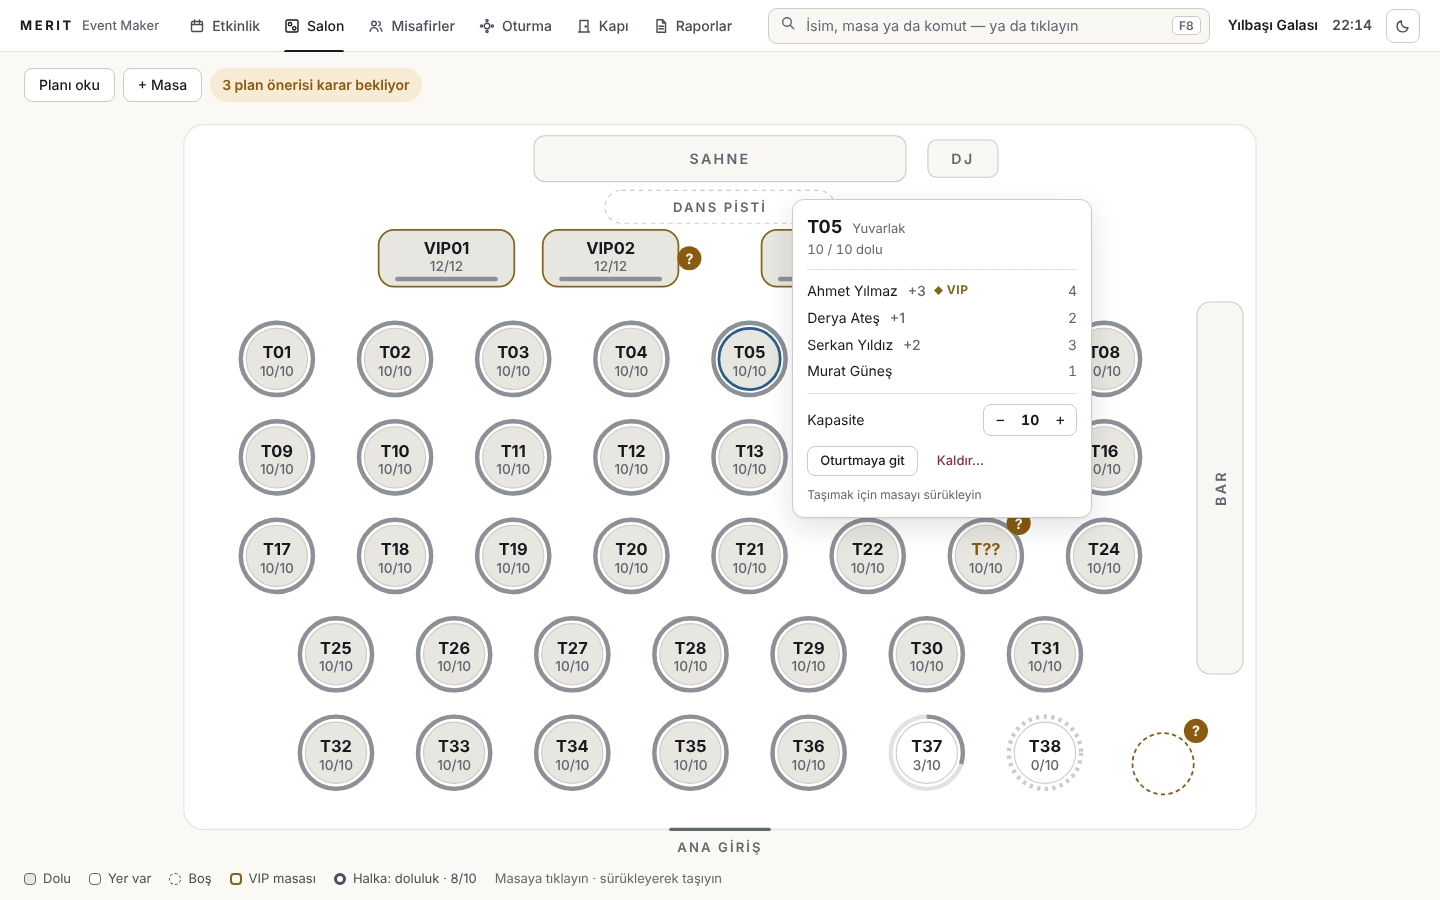
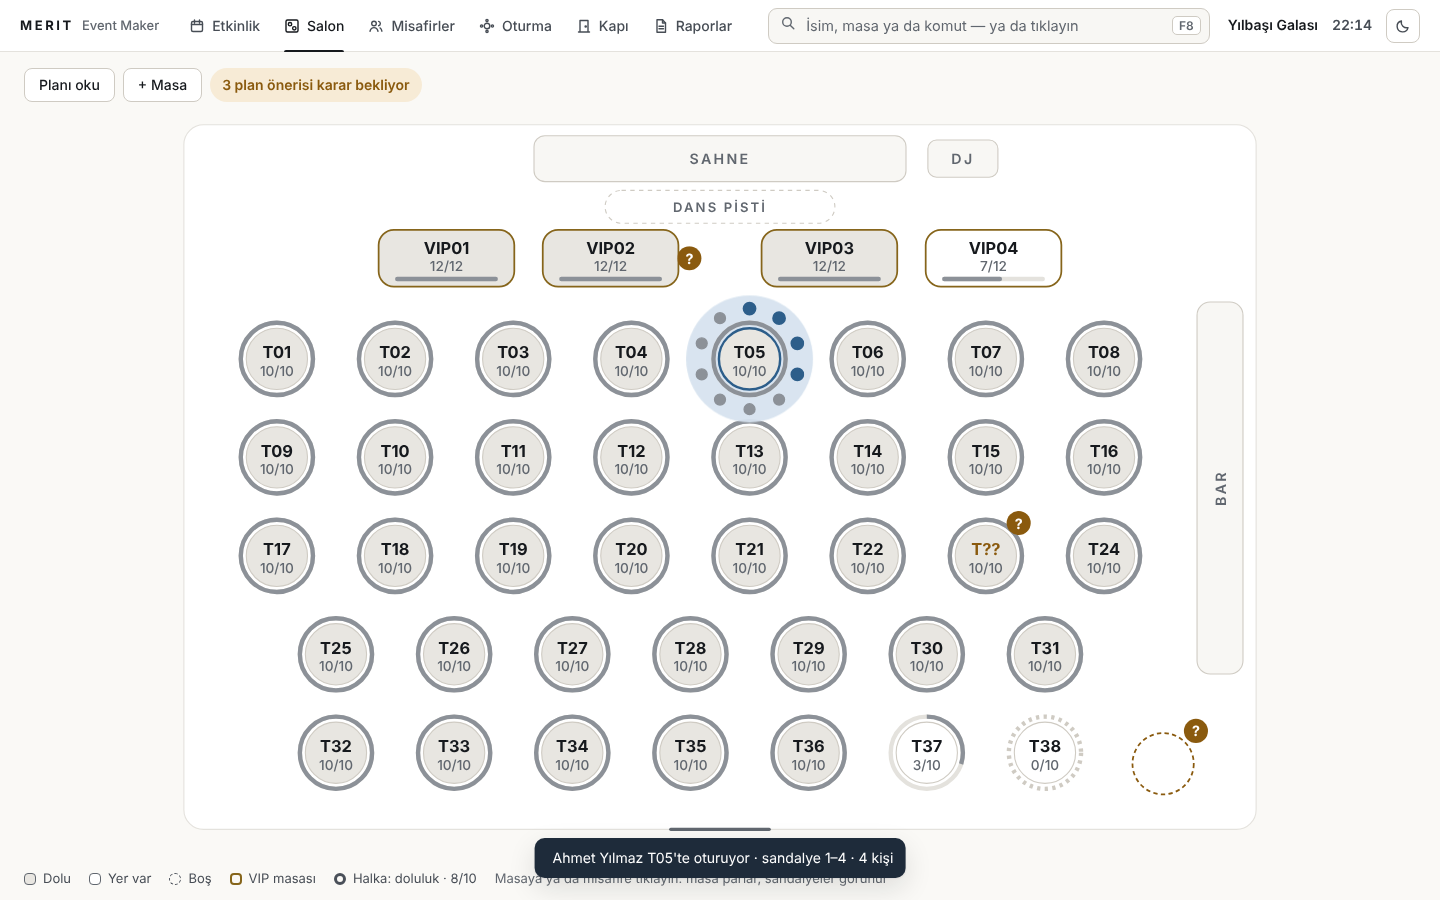
Redesign v3: calendar events, glow-on-ask table with seats, classic dark; runEq2 pre-registered (identical data for all three models)
Claude-Session: https://claude.ai/code/session_01Ak6diUNXKQisc6dYh4daPW

Changed region(s): [[0.4688, 0.2178, 0.7812, 0.5911], [0.3438, 0.9333, 0.6562, 0.9956]]

diff --git a/benchmarks/ux/redesign/6-birlesik/index.html b/benchmarks/ux/redesign/6-birlesik/index.html
@@ -107,8 +107,8 @@ main{height:calc(100vh - 52px);position:relative}
 .cdn{font-size:12.5px;color:var(--ink3);font-weight:600;padding:1px 6px;align-self:flex-start}
 .cell.today .cdn{color:var(--acc-ink);background:var(--acc);border-radius:10px}
 .ce{display:flex;align-items:center;gap:6px;width:100%;text-align:left;border:0;border-radius:6px;padding:4px 6px;background:none;font-size:12.5px;color:var(--ink);min-width:0}
-.ce span{white-space:nowrap;overflow:hidden;text-overflow:ellipsis}
-.ce i{width:3px;height:14px;border-radius:2px;background:var(--acc2);flex:none}
+.ce .cn{display:flex;flex-direction:column;min-width:0;line-height:1.3}.ce .cn b{font-weight:500;white-space:nowrap;overflow:hidden;text-overflow:ellipsis}.ce .cn small{font-size:12px;color:var(--ink3)}.ce.live .cn b{font-weight:650}
+.ce i{width:3px;height:28px;border-radius:2px;background:var(--acc2);flex:none}
 .ce:hover{background:var(--surf2)}
 .ce.on{background:var(--acc2-soft);box-shadow:inset 0 0 0 1px var(--acc2)}
 .ce.past{color:var(--ink3)}.ce svg{flex:none}
@@ -638,11 +638,12 @@ const RENDER={etkinlik:renderEvents,salon:()=>{renderRoom();renderSugChip()},mis
 function goIssue(i){if(!i)return;if(i.f)S.glF=i.f;if(i.g)S.selG=i.g;go(i.go)}
 
 /* ═══ ETKİNLİK: timeline of evenings (from 4-atlas) + readiness ═══ */
+const TODAY='2026-12-31';
 const fmtD=d=>{const x=new Date(d+'T12:00');return x.getDate()+' '+MONTHS[x.getMonth()]+' '+x.getFullYear()};
 function renderEvents(){const [Y,M]=S.month.split('-').map(Number),start=(new Date(Y,M-1,1).getDay()+6)%7,days=new Date(Y,M,0).getDate(),cells=Math.ceil((start+days)/7)*7;
  let h=`<div class="cal-h"><button class="btn ghost icon" data-m="-1" aria-label="Önceki ay">‹</button><h2>${MONTHS[M-1]} ${Y}</h2><button class="btn ghost icon" data-m="1" aria-label="Sonraki ay">›</button><button class="btn sm" data-m="0">Bugün</button></div><div class="cal-dow">${['Pzt','Sal','Çar','Per','Cum','Cmt','Paz'].map(d=>`<span>${d}</span>`).join('')}</div><div class="cal-grid" style="grid-template-rows:repeat(${cells/7},minmax(0,1fr))">`;
  for(let i=0;i<cells;i++){const d=i-start+1;if(d<1||d>days){h+='<div class="cell off"></div>';continue}const ds=`${Y}-${pad2(M)}-${pad2(d)}`;
-  h+=`<div class="cell${ds===TODAY?' today':''}${ds<TODAY?' was':''}"><span class="cdn">${d}</span>${EVENTS.filter(e=>e.d===ds).map(e=>`<button class="ce${e.past?' past':''}${e.live?' live':''}${S.ev===e.id?' on':''}" data-ev="${e.id}" title="${esc(e.name)}">${e.past?IC.lock:'<i></i>'}<span>${e.t?e.t+' · ':''}${esc(e.name)}</span></button>`).join('')}${ds>=TODAY?`<button class="cadd" data-new="${ds}" aria-label="${d} ${MONTHS[M-1]}: yeni etkinlik">+</button>`:''}</div>`}
+  h+=`<div class="cell${ds===TODAY?' today':''}${ds<TODAY?' was':''}"><span class="cdn">${d}</span>${EVENTS.filter(e=>e.d===ds).map(e=>`<button class="ce${e.past?' past':''}${e.live?' live':''}${S.ev===e.id?' on':''}" data-ev="${e.id}" title="${esc(e.name)}">${e.past?IC.lock:'<i></i>'}<span class="cn"><b>${esc(e.name)}</b>${e.t?`<small>${e.t}</small>`:''}</span></button>`).join('')}${ds>=TODAY?`<button class="cadd" data-new="${ds}" aria-label="${d} ${MONTHS[M-1]}: yeni etkinlik">+</button>`:''}</div>`}
  $('#calBox').innerHTML=h+'</div>';renderEvDetail();$('#evname').textContent='Yılbaşı Galası'}
 function renderEvDetail(){const e=EVENTS.find(x=>x.id===S.ev)||EVENTS.find(x=>x.live),x=new Date(e.d+'T12:00'),c=counts();
  const facts=e.live?[['Kişi',420],['Masa',TABLES.length],['Oturmuş',c.seated],['Geldi',c.arrived]]:e.past?[['Kişi',e.pax],['Geldi',e.arr]]:[['Kişi',e.pax||'—'],['Masa',e.tables||'—']];

diff --git a/benchmarks/ux/redesign/6-birlesik/NOTES.md b/benchmarks/ux/redesign/6-birlesik/NOTES.md
@@ -1,15 +1,23 @@
-# 6 · Birleşik — the combined direction (SPEC-v2, revision 2 after the owner's review)
-- **Shell:** one thin 52 px bar with Etkinlik · Salon · Misafirler · Oturma · Kapı · Raporlar (keys 1–6) and the F8 command line beside it. Fonts are system sans only.
-- **Etkinlik (rev 2):** the timeline is replaced by large cards with drawn covers (inline SVG per venue, no photos).
-  - Tonight's event comes first and largest: date, venue, figures, actions and "Hazır mı?".
-  - Upcoming events follow as three cards with readiness. Past events sit below as small, muted, locked cards.
-  - Clicking a card opens it; ⋯ holds Aynı yerleşimle yeni, Çoğalt, Dışa aktar and Sil.
-- **Plan (rev 2) for Salon, Kapı and print:** a simple icon plan. Each table is a clean circle or a rounded rectangle (VIP) with its number and "8/10". The ring or bar shows occupancy, and a full table is filled. Stage, DJ, dance floor, bar and entrance are labelled shapes. There are no chair dots and no wall detail.
-- **Door colours:** on the door the ring shows arrivals in green and no-shows in claret; the number shows arrived / planned.
-- **Oturma:** keeps the chair drawing the owner approved, so each seat stays visible while a guest is being placed. It aligns with the dark shot (Mehmet Kaya → T37, T38 open; VIP tables are not offered to non-VIP guests).
-- **Misafirler:** unchanged; the owner approved it.
-- **Kapı:** unchanged in behaviour. Big search; big "Giriş" on the right; "Gelmedi" only in the ⋯ menu and it asks first. Only that row, that table's ring and the counters change; measured, the row does not move.
-- **Dark theme (rev 2):** calmer graphite (#121314 / #18191B) with restrained accents (green #7AAA8C, claret #C98A90, steel #93A9BF). Switch with F9 or the button.
-- **Contrast (WCAG), on surface:** light ink 17.6, ink-3 5.7, gold 5.4, green 6.4; dark ink 13.9, ink-3 5.3, green 6.7, claret 6.3, gold 8.2; button text 14.4 light / 12.1 dark. Nothing operational is below 12 px.
-- **Checked with Playwright at 1440:** console clean; F8 seat command and undo work; 8 shots, including the events screen in dark.
-- **Cost / risk:** a new shell of about 6–8 weeks, reusing the writers (`assignGuestToTable`, `setArrival`) and the F8 parser. The icon plan needs per-table occupancy rendering. An event with no plan needs a good empty state.
+# 6 · Birleşik — combined direction, revision 3 (SPEC-v2, "Owner's verdict on v2")
+- **Shell:** a thin 52 px bar with Etkinlik · Salon · Misafirler · Oturma · Kapı · Raporlar (keys 1–6) and the F8 command line. Fonts are system sans only.
+- **Etkinlik (v3):** a quiet month calendar, Monday first, opening on Aralık 2026 (‹ › Bugün).
+  - Each event is one slim entry: a bar, the name, and the time underneath.
+  - Past days are a shade darker, and past events are grey with a lock.
+  - Today has a filled date marker. Clicking an entry fills a calm side panel: date and time, venue, people, readiness (four lines), "Etkinliği aç", "Aynı yerleşimle yeni" and ⋯ (Çoğalt, Dışa aktar, Sil).
+  - A "+" appears on a future day under the pointer, to create an event on that date.
+- **Salon / Kapı plan (v3):** a minimal icon plan with no chairs by default (circle or rounded rectangle, number, occupancy ring).
+- **Glow:** these make one table glow and pulse softly, with fine chairs drawn around it:
+  - the assistant is asked "X nerede oturuyor";
+  - a guest row is clicked at the door, or a guest checks in;
+  - a table is clicked in the salon, or a name in its popover.
+  The guest's own seats are highlighted (steel blue in light, champagne in dark). The assistant answers "T05'te oturuyor · sandalye 1–4".
+  The glowing table is drawn last, so nothing covers it. Measured: T05 showed 10 chairs, 4 of them highlighted; the clicked door row did not move.
+- **Classic dark (v3):** deep navy and graphite (#0D1117 / #131A23), ivory text #EEE7D9, champagne primary #CDB98F and gold only on VIP.
+  - Status is shown by a subtle tone plus an icon: sage #A7B59F with a check for arrived, dusty rose #C4A09A with an × for no-show.
+  - There is no neon and no saturated green or red. F9 or the button switches theme.
+- **Unchanged (owner approved):** Misafirler, Oturma (chair drawing) and the door's behaviour (big Giriş on the right, Gelmedi in ⋯ and it asks first, Geri al).
+- **Contrast (WCAG), dark theme on surface #131A23:** ink 14.2 · ink-2 9.1 · ink-3 5.4 (5.8 on background) · sage 8.1 · rose 7.4 · VIP 8.5 · champagne 9.4 · button text 9.4.
+- **Contrast (WCAG), light theme:** ink 17.6 · ink-3 5.7 · VIP 5.4 · green 6.4 · steel 6.8 · button text 14.4.
+- **Text sizes:** nothing operational is below 12 px.
+- **v3 shots, 1440×900:** 1-home (events, light) · 8-home-dark (events, dark) · 2-salon (T05 glowing after the assistant was asked) · 5-door-light · 6-door-dark. Shots 3, 4 and 7 are from v2 and were not re-taken. The console was clean.
+- **Cost / risk:** a shell of about 6–8 weeks, reusing the writers (`assignGuestToTable`, `setArrival`) and the F8 parser. The glow needs per-table seat order, which the seat model already has. An event with no plan needs an empty state.

diff --git a/training/README.md b/training/README.md
@@ -1873,3 +1873,16 @@ because the new tests' names are barred; the training uses the original files.)
 `en9.jsonl` (9, `29f4b4e1633347a0`), `entypo9.jsonl` (`11477167c93d6a4e`); product rule; plus briefs. Caveat: fresh9/en9
 use first names and surnames that were in earlier pools (all three models saw those pools), never these sentences.
 **Use:** the owner's rule — the best on the four exam sets, 0 wrong changes, is shipped.
+
+## 2026-11-07 — runEq2: identical data for all three (owner: "Bütün modellerin eğitimi eşit olmalı ki anlayalım en iyisi hangisi") — written while eqb7f's race was running, before any runEq result was read
+
+runEq made coverage equal, not volume. runEq2 makes the F8 sentences identical: after it every model has seen **every
+item** of data-short (g1), data-b7b (g2), data-b7c (g3), data-b7d (g4), data-b7e (g5), data-b7f (g6) and data-g7 (g7).
+From run.json: B7f's chain is B6d→B7c→B7d→B7e→B7f→Eq, so it lacks g1 and g2. Remainders (`tail` of each run's own file):
+**B7f-eq2** `--init runEq-B7f` + g1 (2400, `bc67cb605cc21087`) + g2 (3000, `df53cf0a23a65f6f`). **B7e-eq2** `--init
+runEq-B7e` + g1 + g2 + g6 items 1201–3600 (`0c1b331677ff10bc`). **2B-eq2** `--init runEq-2B` + g1 601– (`7a549c7b2e02fe5c`),
+g2 601– (`f466736997f6d3fb`), g4/g5/g6 601– (`66bccbcaa7ab8136`, `d8ae61075a46388f`, `0204b19d6278cdf1`). Same flags as
+each model's runEq run (0.8B: plan replay; 2B: BRIEF replay). Order of grammars differs between models (stated). 2B
+was re-downloaded (its bf16 weights had been deleted for disk) and is raced on **Q8_0** (the Q4_K_M file is gone).
+**Exam unchanged:** fresh9/typo9/en9/entypo9 + briefs, product rule. The runEq races are kept as the first,
+coverage-equal reading; **the ship decision uses the eq2 races** (best on the four sets, 0 wrong changes).
